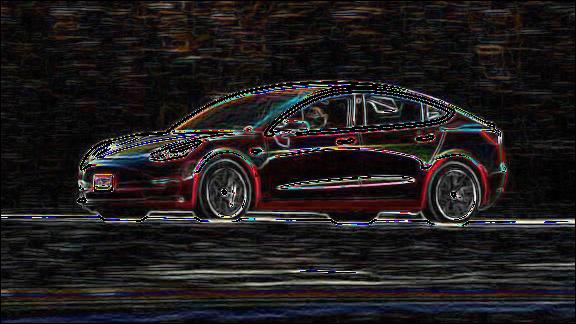
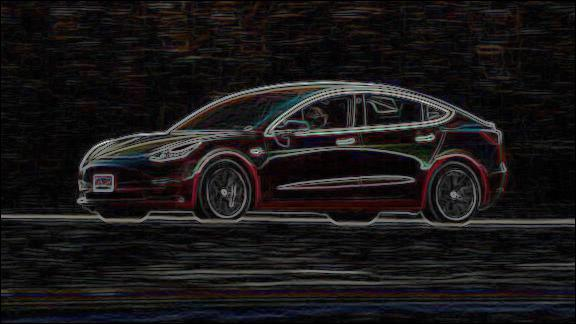
added scaling

diff --git a/main.py b/main.py
@@ -9,25 +9,30 @@ import numpy as np
 np.set_printoptions(threshold=100000)
 
 
+#time1, time2 = 0, 0
+
 def kernelConvolution(kernelH, kernelV, pixels):
     edge = np.zeros((pixels.shape[0], pixels.shape[1]))
     for i in range(1, pixels.shape[0] - 1):
         for j in range(1, pixels.shape[1] - 1):
+            #global time1
+            #global time2
+            #since1 = time.time()
             center = pixels[i-1:i+2,j-1:j+2]
+            #time1 += time.time() - since1
+            #since2 = time.time()
             h = abs(np.sum(kernelH * center))
             v = abs(np.sum(kernelV * center))
-            #edge[i][j] = min(math.sqrt(h * h + v * v) * 1, 260)
-            #edge[i][j] = math.sqrt(h * h + v * v) * 0.8
-            edge[i][j] = min(math.sqrt(h * h + v * v), 2000)
+            #time2 += time.time() - since2
+            edge[i][j] = math.sqrt(h * h + v * v)
     return edge
 
 
-
-# Prompt user for file.
-imageFile = input(" >> Image File Path: ")
-while not(path.exists(imageFile)):
-    print("  Not a valid file path")
-    imageFile = input(" >> Image File Path: ")
+scale = sys.argv[1] == '-scale'
+if scale:
+    imageFile = sys.argv[2]
+else:
+    imageFile = sys.argv[1]
 
 # Set timestamp.
 start = time.time()
@@ -42,37 +47,36 @@ kh = np.array([[1,2,1],[0,0,0],[-1,-2,-1]])
 kv = np.array([[-1,0,1],[-2,0,2],[-1,0,1]])
 
 # Convolve each color plane.          
-rgb[:,:,0] = kernelConvolution(kh, kv, rgb[:,:,0])
-rgb[:,:,1] = kernelConvolution(kh, kv, rgb[:,:,1])
-rgb[:,:,2] = kernelConvolution(kh, kv, rgb[:,:,2])
+#rgb[:,:,0] = kernelConvolution(kh, kv, rgb[:,:,0])
+#rgb[:,:,1] = kernelConvolution(kh, kv, rgb[:,:,1])
+#rgb[:,:,2] = kernelConvolution(kh, kv, rgb[:,:,2])
 
+red = kernelConvolution(kh, kv, rgb[:,:,0])
+green = kernelConvolution(kh, kv, rgb[:,:,1])
+blue = kernelConvolution(kh, kv, rgb[:,:,2])
 
+m = max(np.amax(red), np.amax(green), np.amax(blue))
+sf = 250 / m
 
-#rgb = np.multiply(rgb, 0.8, casting='unsafe').astype(np.uint8)
-#rgb = np.multiply(rgb, 240 / np.amax(rgb), casting='unsafe').astype(np.uint8)
-#rgb = rgb.astype(np.uint8)
-#print(rgb)
-#print(rgb.astype(np.uint8))
-#print(rgb)
-#print(np.amax(rgb))
-#rgb = rgb * (240/np.amax(rgb))
-#print(rgb)
-#rgb = rgb.astype(np.uint8)
-#print(rgb)
-# Convert array to image and show.
+if scale:
+    # Cubic scaling.
+    red = ((red * sf - 125) ** 3) / 125**2 + 125
+    green = ((green * sf - 125) ** 3) / 125**2 + 125
+    blue = ((blue * sf - 125) ** 3) / 125**2 + 125
+else:
+    # No scaling.
+    red *= sf
+    green *= sf
+    blue *= sf
 
-
-m = np.amax(rgb)
-for i in range(rgb.shape[0]):
-    for j in range(rgb.shape[1]):
-        for k in range(rgb.shape[2]):
-            rgb[i][j][k] = rgb[i][j][k] * 250 / m
-
-edges = Image.fromarray(rgb)
+#color = np.hstack((red, green, blue)) # 3 images in a row
+color = np.dstack((red, green, blue))
+edges = Image.fromarray(color.astype(np.uint8), mode='RGB')
 edges.show()
 edges.save('result/{}'.format(imageFile))
 
-
+#print(time1)
+#print(time2)
 
 # Print time.
 print(' {} seconds'.format(round(time.time() - start), 2))
